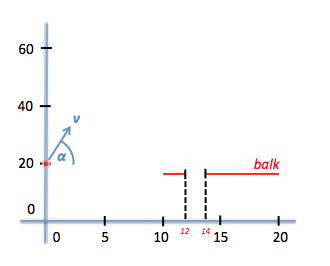
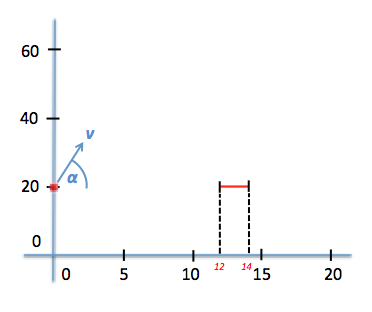
extra simulatie

Changed region(s): [[0.0303, 0.0602, 0.9697, 0.9323]]

diff --git a/30 Module 3/30 Simulaties 2/20 AngryBirds.md b/30 Module 3/30 Simulaties 2/20 AngryBirds.md
@@ -7,35 +7,37 @@ onder invloed van de zwaartekracht gaan bewegen.
 
 ![](AngryBirdOverview.png)
 
-Als de bal de grond raakt zal hij terugstuiteren en weer omhoog bewegen. 
-Naast de grond is er nog een object dat de beweging van de bak kan beinvloeden: 
-een balk. De balk bevindt zich op een hoogte $$y_{balk}=20$$ en strekt zich 
-uit van $$10 < x_{balk} < 20$$. En, let op, er zit een gat in de balk, 
-namelijk: $$ 12 < x_{gat} < 14$$.
+Als de bal de grond raakt zal hij terugstuiteren en weer omhoog bewegen. In 
+het probleem is ook een druksensor aanwezig dat reageert op een contact met 
+een object. De druksensor bevindt zich op een hoogte $$y_{sensor}=20$$ en 
+strekt zich uit van $$10 < x_{sensor} < 20$$. 
 
 Schrijf een programma `AngryBirds.py` die bestudeert welke hoeken zorgen 
-dat de weggeschoten kogel door het gat heen gaat als het met $v=16$ [m/s] 
-wordt weggeschoten. Varieer hierbij de hoek $\alpha$ tussen -88 en +88 
-graden in stapjes van 2 graden 
+dat de weggeschoten kogel de druksensor zal raken (van boven of van onder)
+als het met een snelheid $v=16$ [m/s] wordt weggeschoten. Varieer hierbij 
+de hoek $\alpha$ tussen -88 en +88 graden in stappen van 1 graad en maak 
+een grafiek waarin duidelijk wordt welke hoeken wel/niet voor een contact 
+met de druksensor zorgen.
  
 Probeer ook deze opdracht in kleine stapjes aan te pakken:
 
    - Maak eerst een functie dat de beweging van het kogeltje laat zien 
-op het scherm met behulp van een animatie. Zorg dat deze functie als
-input variabelen de snelheid en hoek mee kan krijgen. vergeet hierbij 
-de balk.
+     op het scherm met behulp van een animatie. Zorg dat deze functie 
+     als inputparameter de hoek waaronder de kogel weggeschoten mee krijgt.
 
-   - vergeet de balk, maar kijk of je kan bepalen of de kogel door de lijn y=15
-heengaat ergens tussen x=12 en x=14.
+   - zorg dat je bij aanroep van de functie kan kiezen of de animatie 
+     wel/niet op het scherm getekend wordt. Dat tekenen duurt erg lang 
+     en wil je niet altijd doen.
 
-   - voeg de balk toe en zorg dat de functie een return-value geeft die laat 
-zien of de kogel wel/niet door het gat is gegaan.
+   - bepaal of je kan bepalen of de kogel door de lijn y=20 heengaat 
+     ergens tussen x=12 en x=14.
 
-   - Zorg dat je bij aanroep van de functie kan kiezen of je wel/niet de animatie 
-     op et scherm tekent. Dat tekene duurt erg lang en wil je niet altijd doen.
-    
-   - Varieer de hoeken en maak een grafiek waarbij duidelijk wordt welke 
-     hoeken wel/niet zorgen dat de kogel door het gat gaat
+   - zorg dat de functie een return-value geeft die weergeeft of de kogel 
+     wel/niet door het gat is gegaan.
+   
+   - varieer in een nieuw stuk programma de hoeken, roep de functie steeds 
+     aan en maak een grafiek waarbij duidelijk wordt welke hoeken wel/niet 
+     zorgen dat de kogel door het gat gaat
 
 
 ## Extra (optioneel):
